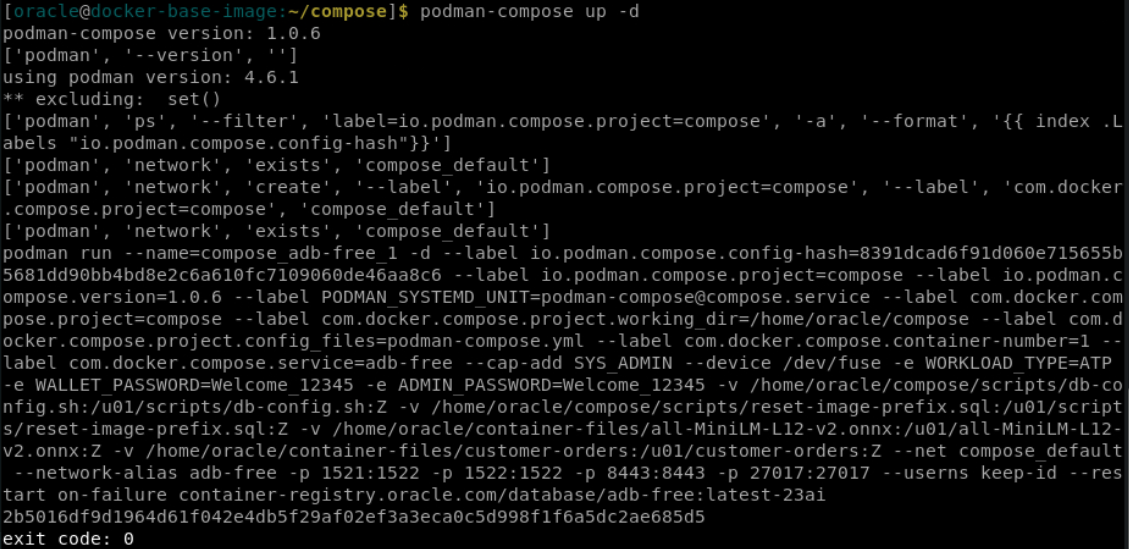
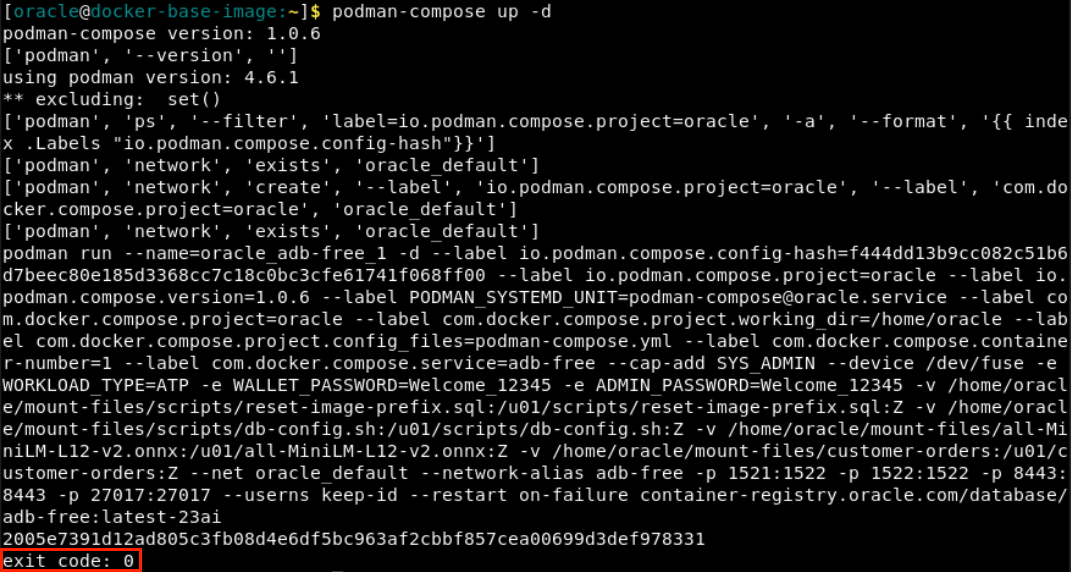
LL ID #3984 + LL ID #4008: Screenshots + Collective Updates (#663)
* Self-QA Updates

Adding workshop changes to further align with the Self-QA checklist.

* Update adb-free-container-setup.md

* Post-Testing Edits V1

* Update adb-free-container-setup.md

* Post-Testing Changes V2

* Updating Screenshots

* WMSID# 11693: Adding the initial workshop structure.

* Update adb-free-container-setup.md

* Update adb-free-container-setup.md

* [WMS ID #11029] DB Collective - JSON Duality Search

* WMS ID #11029: Minor fix

* Update manifest.json

* LL ID #4004: Add JSON Duality Intro

* LL ID# 4004: Minor Updates

* LL ID #4004: Minor updates.

* WMS ID #11693: Revising the workshop structure.

* WMS ID# 11693

* HOL 46

* DB Collective - JSON Updates

* LL ID #4004: DB Collective Changes

* OCW & DB Collective Updates

* Update new-duality-views-15.md

* Update new-duality-views-15.md

* Update new-duality-views-15.md

* Update new-duality-views-15.md

* Update new-duality-views-15.md

* Update new-duality-views-15.md

* LL ID #3984: Formatting Changes

* HOL 46 Technical Fixes

* Update inst-auth-container-setup.md

* DB Collective + OCW 24 Updates

* Update manifest.json

---------

diff --git a/23aifree/adb-free-container-setup/inst-auth-container-setup.md b/23aifree/adb-free-container-setup/inst-auth-container-setup.md
@@ -1,14 +1,14 @@
-# Install Oracle Autonomous Database 23ai Free Docker Image
+# Install Oracle Autonomous Database 23ai Free Container Image
 
 ## Introduction
-In this lab, you will experience just how easy it is to get started with the Oracle Autonomous Database 23ai Free Container Image. One launched, we will show you how to take advantage of the developer tools available to you, as we show you how to access SQL Developer Web & APEX--without any additional installations!
+In this lab, you will experience just how easy it is to get started with the Oracle Autonomous Database 23ai Free container image. Once launched, we will show you how to take advantage of the developer tools available to you, as we show you how to access SQL Developer Web & APEX--without any additional installations!
 
 **_Estimated Time: 30 minutes_**
 
 ### **Objectives**
 In this lab, you will:
 
-* Launch the Docker container image.
+* Launch the container image.
 * Connect to your Autonomous Database.
 * Access SQL Developer Web & APEX.
 
@@ -34,10 +34,12 @@ In the LiveLabs Sandbox, we will download the image from an OCI bucket. However,
     wget https://objectstorage.ca-toronto-1.oraclecloud.com/p/GDCjmPfuRMx-juvDGT0Mn7ZsaI_O5y_PsGg41xcLVVl8vewGOm6Ns4zeLsTPAr3p/n/c4u04/b/apex-images/o/configuration-files.zip -P /tmp
 
     # Opening the zip file.
-    unzip -q /tmp/installation-files.zip
+    unzip -q /tmp/configuration-files.zip
+
     </copy>
     ```
-    ![Download container image](images/download-image.png)
+    ![Download container image](images/download-configuration-files.png)
+
 
 
 2. **Load the image into the podman catalog. (~5 mins)** Podman-load copies the image from the local docker archive into the podman container storage. This will take about 5 minutes--let's review the YAML file in the meantime.
@@ -47,7 +49,7 @@ In the LiveLabs Sandbox, we will download the image from an OCI bucket. However,
     podman load -i adb-free-23ai.tar.gz
     </copy>
     ```
-    ![Load image into podman catalog](images/podman-load-image.png)
+    ![Load image into podman catalog](images/podman-load.png)
 
 3. **Review the YAML file.** Run the following command to learn more about how the YAML file helps launch the container image.
     ```
@@ -103,15 +105,15 @@ In the LiveLabs Sandbox, we will download the image from an OCI bucket. However,
     podman ps --format "{{.Names}} {{.Status}}"
     </copy>
     ```
-    ![Check container status](images/check-container-status)
+    ![Check container status](images/check-container-status.png)
 
 6. **Confirm the files were pre-loaded into the container.**
     ```
     <copy>
-    podman exec -it oracle_adb-free_1 ls /u01/mount-files
+    podman exec -it oracle_adb-free_1 ls /u01/
     </copy>
     ```
-    ![PODMAN_CONFIRM_PRELOADS](images/aivs_lab1_task1_step8.png)
+    ![PODMAN_CONFIRM_PRELOADS](images/check-file-mounts.png)
    
 7. **Relocate tnsnames.ora in the container.** 'tnsnames.ora' is a configuration file, storing the database details necessary for connection. We're moving the file into a directory that's meant for our database for easy connection.
     ```
@@ -119,14 +121,14 @@ In the LiveLabs Sandbox, we will download the image from an OCI bucket. However,
     podman exec -it oracle_adb-free_1 cp /u01/app/oracle/wallets/tls_wallet/tnsnames.ora /u01/app/oracle/product/23.0.0.0/dbhome_1/network/admin/tnsnames.ora
     </copy>
     ```
-    ![PODMAN_EXEC](images/aivs_lab1_task1_step9.png)
 
-8. **Confirm ORDS is running.**
+8. **Confirm ORDS is running.** The 'jps' command lists out all of the java proceses running on the host. We're then filtering that list on the term 'ords'.
     ```
     <copy>
     podman exec -it oracle_adb-free_1 jps -l | grep ords
     </copy>
     ```
+    ![See if ORDS is running.](images/check-ords.png)
 
 9. **Configure the APEX image.** We'll first need to redirect APEX to use the images behind our firewall. Run this command in the terminal to do so. This is only required for APEX use in Livelabs.
 
@@ -141,8 +143,7 @@ In the LiveLabs Sandbox, we will download the image from an OCI bucket. However,
 Oracle Autonomous Database Free has APEX and ORDS (a.k.a Database Actions) preinstalled. Let's see how you can get started!
 
 1. **Open Google Chrome.** Click Activities >> Google Chrome icon, to open a new Chrome window.
-    [Insert gif]
-    
+
 2. **Launch ORDS.** Paste the following URL into your Chrome browser to Launch ORDS.
 
     ```
@@ -150,18 +151,19 @@ Oracle Autonomous Database Free has APEX and ORDS (a.k.a Database Actions) prein
     https://localhost:8443/ords
     </copy>
     ```
-    ![ORDS landing page](images/ords-landing.png)
 
-3. **Sign into ORDS.** <br/> <br/>
+3. **Launch SQL Developer Web.** You now have access to Database Actions! This is where you'll find both APEX and SQL Developer Web. For now, we'll only launch SQL Developer Web.
+
+    ![PODMAN_PS](images/aivs_lab1_task2_step5.png)
+
+
+4. **Sign into ORDS.** <br/> 
     
     **Username -** admin<br/>
     **Password -** Welcome_12345 (or the custom password you specified in Task 1, Step 5.)
 
     ![Sign into DB Actions](images/sign-in-ords.png)
 
-4. **Launch SQL Developer Web.** You now have access to Database Actions! This is where you'll find both APEX and SQL Developer Web. For now, we'll only launch SQL Developer Web.
-
-    ![PODMAN_PS](images/aivs_lab1_task2_step5.png)
 
 5. **Sign-in to SQL Developer Web.** <br/>
     **Username -** admin <br/>

diff --git a/db-23ai-fundamentals/new-schema-level-privileges/new-schema-level-privileges-15.md b/db-23ai-fundamentals/new-schema-level-privileges/new-schema-level-privileges-15.md
@@ -1,0 +1,118 @@
+# Working with Schema-Level Privileges
+
+## Introduction
+
+Welcome to the Working with Schema-Level Privileges lab. In this lab, you will learn how to work with the new schema-level privilege management feature introduced in Oracle Database 23ai. 
+
+**_Estimated Lab Time: 10 minutes_**
+
+### **Objective**
+The objective of this workshop is to learn how to work with the schema-level privilege grant in Oracle Database 23ai and demonstrate its practical applications for managing access to application schemas in an easy way. 
+
+### **Prerequisites**
+- Access to Oracle Database 23ai.
+- Basic understanding of database schemas and privileges is recommended but not required.
+
+## Task 1: Understanding Schema-Level Privileges
+
+1. Before we get into the code examples, let's briefly talk about the traditional methods of privilege management in Oracle databases.
+
+    * **Individual Privilege Grants**: This involves granting individual privileges on each table or view in the application schema. While granular, it's cumbersome and could cause user errors, especially with schema changes.
+
+    * **ANY Privileges**: Granting "ANY" privileges (e.g., `SELECT ANY TABLE`) provides broad access but compromises security by granting excessive permissions.
+
+    * Oracle Database 23ai introduces a simpler approach: **Schema-Level Privileges**. This allows granting privileges at the schema level, offering a balance between granularity and convenience.
+
+## Task 2: Benefiting from Schema-Level Privileges
+
+1. From the Autonomous Database home page, **click** Database action and then **click** SQL.
+    ![click SQL](images/im1.png " ")
+
+2. Let's now look at the syntax and usage of schema-level privileges in Oracle Database 23ai. First, we'll add a couple of test users.
+
+    ```
+    <copy>
+    drop user if exists bob cascade;
+    drop user if exists sally cascade;
+    create user bob identified by Oracle123long;
+    create user sally identified by Oracle123long;
+    </copy>
+    ```
+    ![drop and create the needed users for the lab](images/im2.png " ")
+
+    Now we can grant our bob user various privileges to other users or roles. 
+
+    ```
+    <copy>
+    -- tables, views, and materialized views
+    grant select any table on schema sally to bob;
+    grant insert any table on schema sally to bob;
+    grant update any table on schema sally to bob;
+    grant delete any table on schema sally to bob;
+
+    -- procedures, functions, packages, and sequences
+    grant execute any procedure on schema sally to bob;
+    grant select any sequence on schema sally to bob;
+    </copy>
+    ```
+
+    ![grant the schema level privileges](images/im3.png " ")
+
+    These grants provides user bob with select, insert, update, delete, execute any procedures, functions, packages, and select sequence privileges on all tables and views within the schema sally. 
+
+3. Schema-level privileges dynamically adapt to schema changes. If new tables or views are added to the schema, users granted schema-level privileges instantly gain access without additional management.
+
+4. Oracle Database 23ai simplifies privilege management with dedicated views. We can use views like `DBA_SCHEMA_PRIVS` to check the schema-level privileges granted to users. Others include ROLE\_SCHEMA\_PRIVS, USER\_SCHEMA\_PRIVS, and SESSION\_SCHEMA\_PRIVS.
+
+    ```
+    <copy>
+    SELECT * FROM DBA_SCHEMA_PRIVS WHERE GRANTEE = 'BOB';
+    </copy>
+    ```
+    ![check the grantees](images/im4.png " ")
+
+5. Just as expected, we can revoke the privileges too. Let's revoke bobs privileges on sally's schema
+
+    ```
+    <copy>
+    -- tables, views, and materialized views
+    revoke select any table on schema sally from bob;
+    revoke insert any table on schema sally from bob;
+    revoke update any table on schema sally from bob;
+    revoke delete any table on schema sally from bob;
+
+    -- procedures, functions, packages, and sequences
+    revoke execute any procedure on schema sally from bob;
+    revoke select any sequence on schema sally from bob;
+    </copy>
+    ```
+    ![check the grantees](images/im5.png " ")
+
+
+## Task 3: Understanding Advanced Privilege Management
+
+1. You can also grant schema-level privileges on schemas without special privileges. However, granting privileges on other schemas requires additional privileges like GRANT ANY SCHEMA PRIVILEGE.
+
+3. In this lab, you've explored the schema-level privilege management in Oracle Database 23ai. By using schema-level privileges, you can drastically reduce the management and administration needed to grant schema privileges prior to 23ai and improve security through their use.
+
+4. We can clean up from the lab by dropping our tables.
+
+    ```
+    <copy>
+    drop user if exists bob cascade;
+    drop user if exists sally cascade;
+
+    </copy>
+    ```
+    You may now **proceed to the next lab** 
+
+
+## Learn More
+
+- [Oracle Database 23ai Documentation](https://docs.oracle.com/en/database/oracle/oracle-database/index.html)
+- [Oracle Blog - Exploring Schema-Level Privileges](https://blogs.oracle.com/cloudsecurity/post/schemalevel-privilege-grants-with-database-23c)
+
+## Acknowledgements
+* **Author** - Killian Lynch, Database Product Management
+* **Contributors** - Dom Giles, Distinguished Database Product Manager
+* **Last Updated By/Date** - Killian Lynch, April 2024

diff --git a/23aifree/introduction/intro-aivs-adb.md b/23aifree/introduction/intro-aivs-adb.md
@@ -2,25 +2,15 @@
 
 ## About the Workshop
 
-With Oracle Autonomous Database Free, you get to explore the newest features of Oracle Database 23ai at no-cost! This workshop guides you through the container image installation to get started in your own environment, without requiring access to Oracle Cloud Infrastructure Console or to the internet.
+With Oracle Autonomous Database Free, you get to explore the newest features of Oracle Database 23ai at no-cost! In this workshop, we'll show you how to get started by installing the ADB Free 23ai container image, which requires no access to Oracle Cloud Infrastructure Console or the internet.
 
-After installation, you'll learn how to further extend the capabilities of the Autonomous Database by accessing APEX, and SQL Developer Web. Once your environment is set for development, you'll (introduce the vector search activity) and see just how easy it is to leverage AI Vector Search. 
+After installation, you'll learn how to further extend the capabilities of the Autonomous Database by exploring Oracle REST Data Services. You'll be using SQL Developer Web to experience how Oracle AI Vector Search can take your data to the next level. 
 
 ### **About the Oracle Autonomous Database 23ai Free Container Image**
 Oracle Autonomous Database provides an easy-to-use, fully autonomous database that scales elastically and delivers fast query performance. As a service, Autonomous Database does not require database administration. Autonomous Database provides a fully managed Oracle Database that is available on Oracle Cloud Infrastructure.
 
 The Oracle Autonomous Database Free Container Image provides an alternative to run Autonomous Database in a container in your own environment, without requiring access to Oracle Cloud Infrastructure Console or to the internet. When you run Autonomous Database in a container, the container provides a local, isolated environment with additional options for development, testing, and exploration of Oracle Autonomous Database features.
- 
 
-<!-- ### **Tools - SQLcl**
-
-Oracle SQL Developer Command Line (SQLcl) is a modern, free command line interface for Oracle Database. It allows you to interactively or batch execute SQL and PL/SQL. SQLcl provides in-line editing, statement completion, and command recall for a feature-rich experience, all while also supporting your previously written SQL*Plus scripts.
-
-### **Tools - Database Actions**
-Formerly known as SQL Developer Web, Database Actions brings you your favorite Oracle Database desktop tool’s features and experience to your browser! Delivered as a single-page web application, Database Actions is powered by Oracle REST Data Services (ORDS). Database Actions offers, a worksheet for running queries and scripts, the ability to manage and browse your data dictionary, a REST development environment for your REST APIs and AUTOREST enabled objects, an interface for Oracle’s JSON Document Store (SODA), a DBA console for managing the database, a data model reporting solution, and access to PerfHub.
-
-### **Tools - APEX**
-Oracle APEX is the world's most popular enterprise low-code application platform that enables you to build scalable, secure web and mobile apps, with world-class features, that can be deployed anywhere – cloud or on premises. Using APEX, developers can quickly develop and deploy compelling apps that solve real problems and provide immediate value. You don't need to be an expert in a vast array of technologies to deliver sophisticated solutions. Focus on solving the problem and let APEX take care of the rest. -->
 
 **_Estimated Time: 90 minutes_**
 

diff --git a/db-23ai-fundamentals/intro/security-intro-15.md b/db-23ai-fundamentals/intro/security-intro-15.md
@@ -1,6 +1,6 @@
 # Introduction
 
-Welcome to the Oracle Database Security workshop for Oracle Database 23ai! In this workshop, we will explore some of the new security features introduced in Oracle Database 23ai, focusing on Security Firewall, Schema Level Privileges, and the Developer Role. By the end of this lab, you will have a deeper understanding of how these features can help improve the security of your database environment. This section will be updated over time. If you'd like to see a specific feature added, tag me on X (twitter) with your suggestion! [@Killianlynchh](https://twitter.com/Killianlynchh)
+In this workshop, we introduce you to a newly released feature of Oracle Database 23ai--_Schema-Level Privileges_. Previously, developers had to either give users full-access to the database or manually grant user privileges to each database object in a schema. With Oracle Database 23ai, developers can now grant privileges at the schema-level--making it easier to secure your database.
 
 ## About Oracle Database 23ai
 
@@ -10,18 +10,6 @@ Users of Oracle Database 19c and 21c can directly upgrade to Oracle Database 23a
 
 Check out this workshop for free access to two databases and a hands on guide to get some experience with upgrading:
 [Hitchhiker's Guide for Upgrading to Oracle Database 19c & Oracle Database 23ai](https://livelabs.oracle.com/pls/apex/dbpm/r/livelabs/view-workshop?wid=3943)
-
-### **New Security Features**
-
-This section explores some of the new Security features in Oracle Database 23ai.
-* **SQL Firewall:** 
-    - SQL Firewall offers real-time protection against common database attacks by monitoring and blocking unauthorized SQL and SQL injection attacks from inside the database. 
-
-- **Schema Level Privileges:**
-    - Prior to Oracle Database 23ai, managing schema privileges required more administration efforts. With schema-level privileges, administrators can easily reduce the overhead involved in granting and managing privileges, and improve security at the same time.
-
-- **Developer Role:**
-    - The Developer Role provides a comprehensive set of system privileges, object privileges, predefined roles, PL/SQL package privileges, and tracing privileges required by application developers.
 
     
 You may now proceed to the next section.
@@ -36,6 +24,6 @@ You may now proceed to the next section.
 
 ## Acknowledgements
 * **Author** - Killian Lynch, Database Product Management
-* **Contributors** - Dom Giles, Distinguished Database Product Manager
-* **Last Updated By/Date** - Killian Lynch, April 2024
+* **Contributors** - Dom Giles, Brianna Ambler, Database Product Management
+* **Last Updated By/Date** - Brianna Ambler, August 2024
 

diff --git a/23aifree/vector-search/traditional-search.md b/23aifree/vector-search/traditional-search.md
@@ -10,7 +10,8 @@ In this lab, you will quickly configure the Oracle Autonomous Database Free 23ai
 In this lab, you will:
 
 * Configure a clothing retail schema.
-* Compare the performance of traditional search vs. vector search.
+* Introduce the traditional search dilemma.
+
 
 ### **Prerequisites**
 This lab assumes you have:
@@ -47,7 +48,7 @@ As a retailer, you want customers to easily search your catalog for the clothing
 
 1. **Return to SQL Developer Web.** Open Google Chrome (Activities >> Chrome Icon) to return to SQL Developer Web. 
     [insert gif]
-    
+
 2. **Review the products table.** 
     ```
     <copy>
